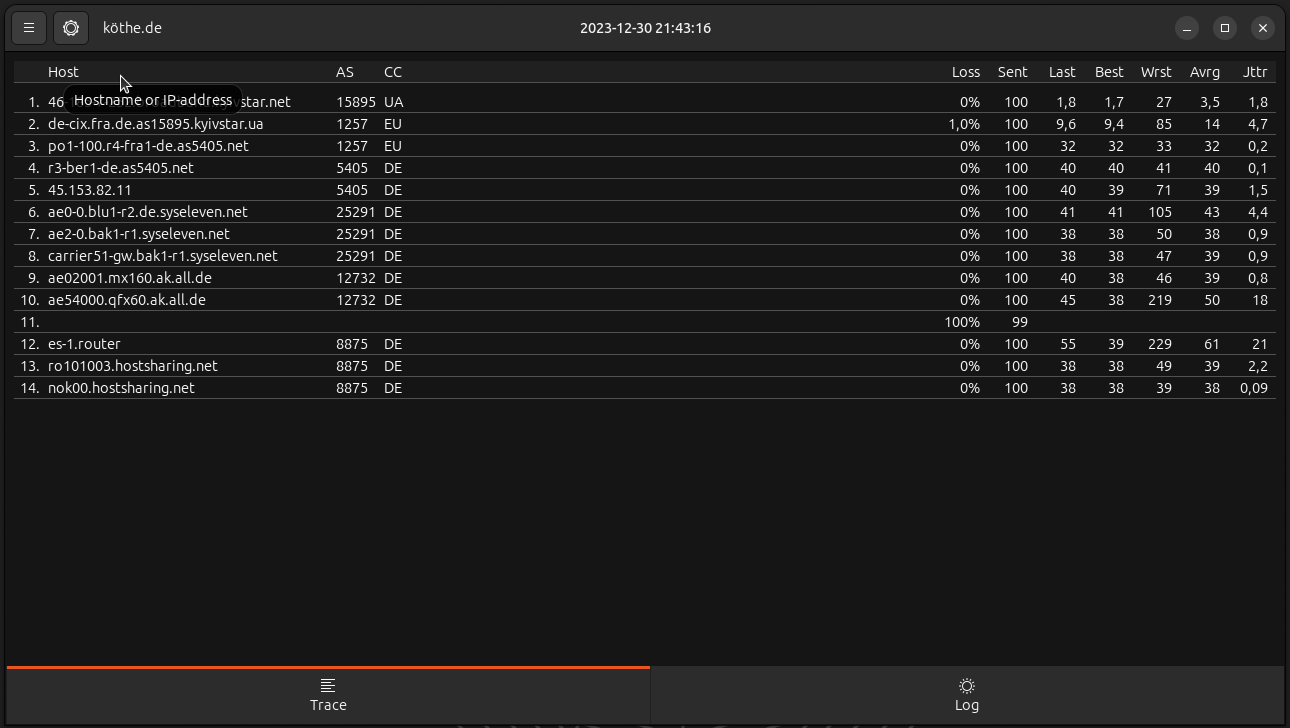
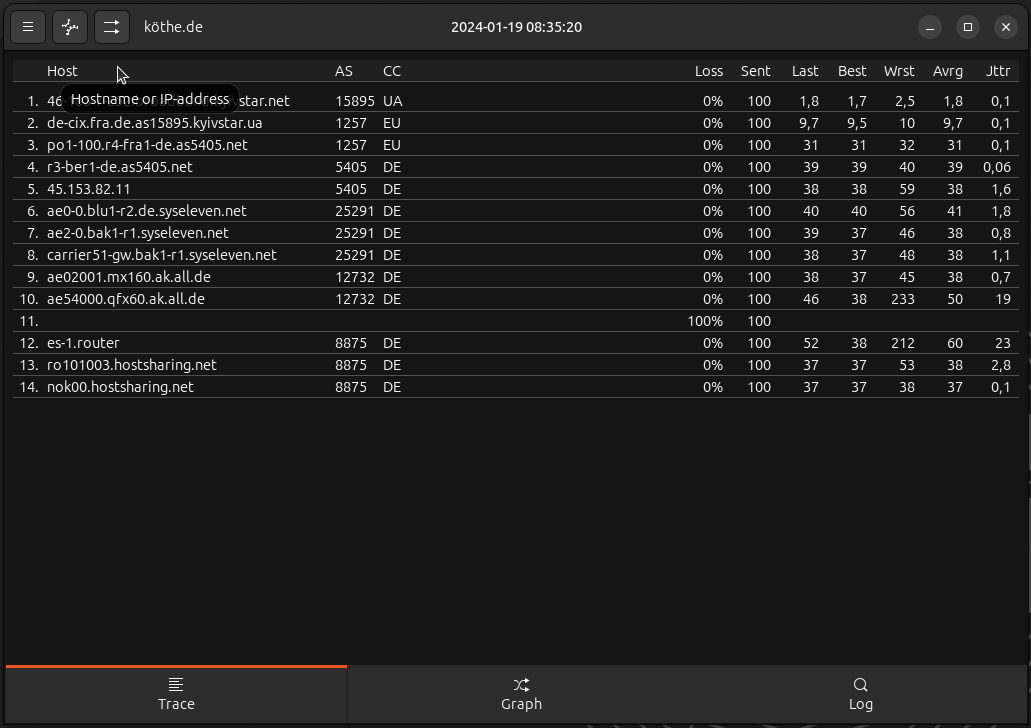
update screenshots to display graphs

diff --git a/common.h b/common.h
@@ -9,7 +9,7 @@
 #endif
 
 #define APPNAME "pingpath"
-#define VERSION "0.1.57"
+#define VERSION "0.1.58"
 
 #define MAXTTL  30
 #define MAXADDR 10

diff --git a/README.md b/README.md
@@ -35,3 +35,12 @@ SCREENSHOTS
 ## with option menu
 ![pp-screenshot03](https://raw.githubusercontent.com/yvs2014/pingpath/main/img/pp-screenshot03.png)
 
+## conventional graphs
+![pp-screenshot04](https://raw.githubusercontent.com/yvs2014/pingpath/main/img/pp-screenshot04.png)
+
+## graphs with legend
+![pp-screenshot06](https://raw.githubusercontent.com/yvs2014/pingpath/main/img/pp-screenshot06.png)
+
+## with auxiliary menu and Graph tab on background
+![pp-screenshot05](https://raw.githubusercontent.com/yvs2014/pingpath/main/img/pp-screenshot05.png)
+

diff --git a/CHANGELOG.md b/CHANGELOG.md
@@ -1,3 +1,6 @@
+## 0.1.58
+- update screenshots to display graphs
+
 ## 0.1.57
 - add more internal checks and warns
 
